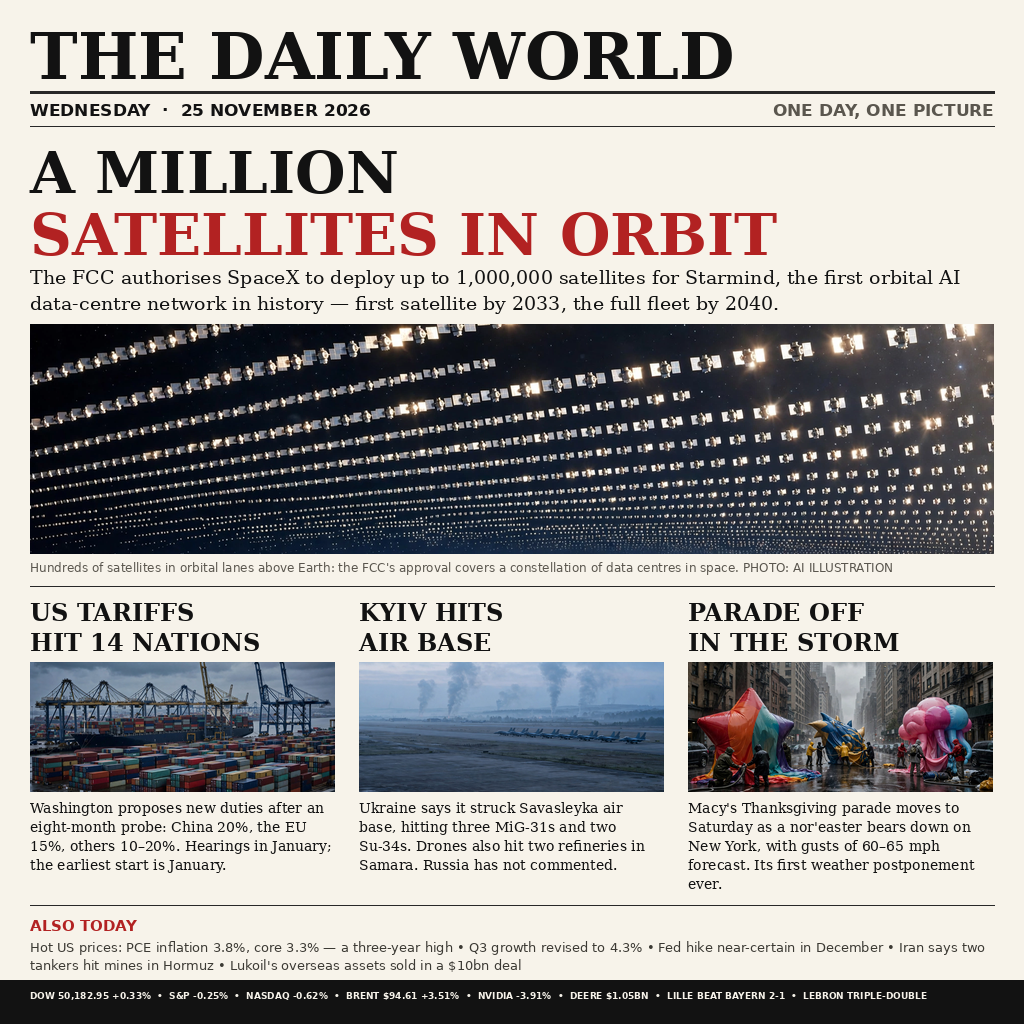
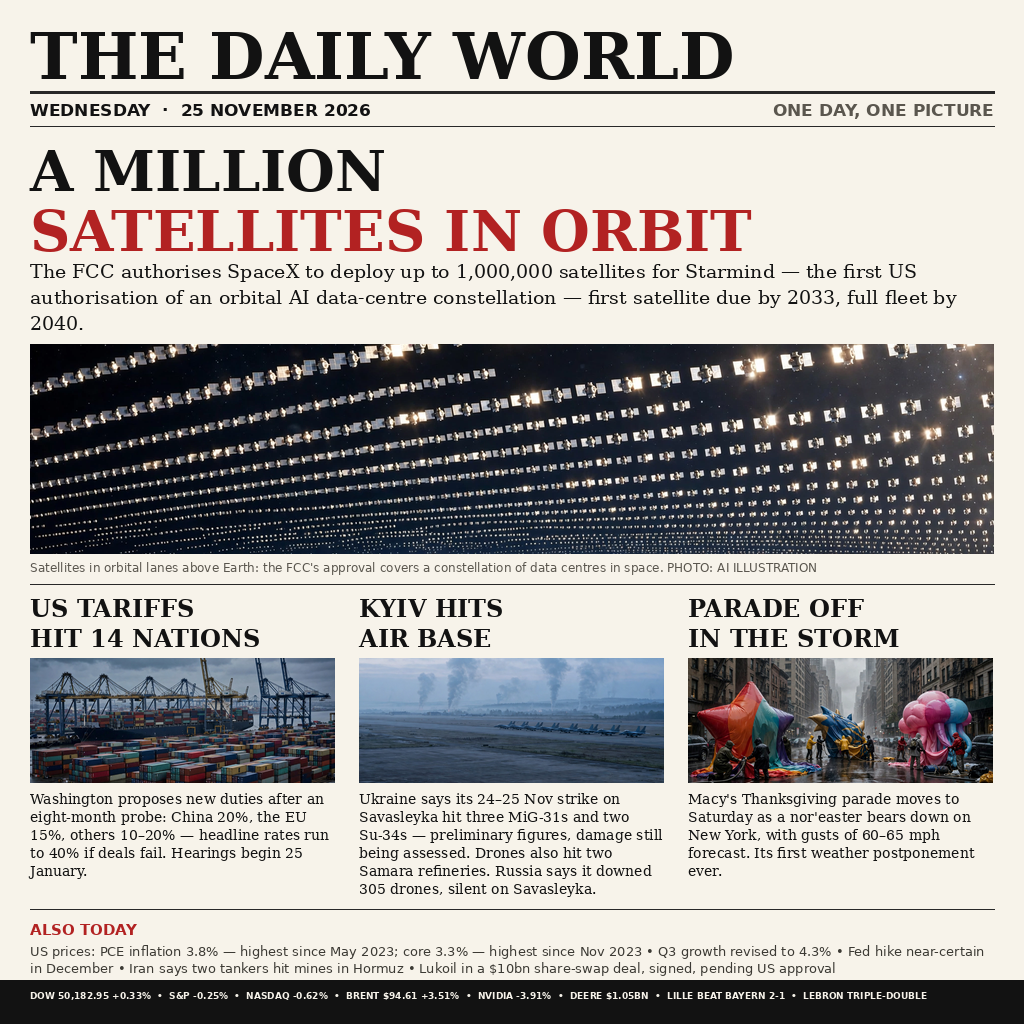
news-image-20261125: apply VERIFY.md corrections (FCC wording, tariff caps, Kyiv attribution, PCE split, Lukoil status)

Changed region(s): [[0.0312, 0.125, 0.9688, 0.9688]]

diff --git a/VERIFY.md b/VERIFY.md
@@ -1,0 +1,191 @@
+# VERIFY.md — "THE DAILY WORLD", Wednesday 25 November 2026
+
+Fact-check of the front page image `entry.png` (read visually first; all claims below are quoted from the page). Verification date: 26 November 2026. Standard applied: each event must have **happened on Wednesday 25 November 2026** (an event's date is the date it happened, not the date a digest listed it), confirmed by at least two independent sources, preferring primary/wire sources (Reuters, AP, WSJ, CNN, BBC). Where a claim rests on one party's assertion only, that is flagged.
+
+---
+
+## 1. Masthead date — WEDNESDAY, 25 NOVEMBER 2026
+
+**Verdict: PASS**
+
+25 November 2026 was a Wednesday (verified by calendar: Wednesday 2026-11-25; Thanksgiving Day itself fell Thursday 26 November 2026, and the rescheduled parade date, Saturday 28 November 2026, is a Saturday). No correction.
+
+- Sources: calendar check; WSJ, "Macy's Postpones Its Thanksgiving Day Parade Until Saturday", 25 Nov 2026 (parade "originally scheduled for Nov. 26").
+
+---
+
+## 2. Lead — FCC authorises SpaceX to deploy up to 1,000,000 satellites for Starmind
+
+Page text: *"The FCC authorises SpaceX to deploy up to 1,000,000 satellites for Starmind, the first orbital AI data-centre network in history — first satellite by 2033, the full fleet by 2040."*
+
+**Verdict: PARTIAL**
+
+What checks out:
+
+- **Number (1,000,000) and name (Starmind): correct.** Reuters, 25 Nov 2026: "The Federal Communications Commission on Wednesday said it was authorizing Elon Musk's SpaceX to deploy 1 million satellites for data centers in space… the FCC said it was approving the SpaceX 'Starmind' constellation." WSJ, 25 Nov 2026: "SpaceX has won approval from the Federal Communications Commission to launch one million data centers into space… known as Starmind."
+- **2033 / 2040 milestones: correct as regulatory deadlines.** WSJ, 25 Nov 2026: "The FCC authorization gives SpaceX until 2033 to launch and operate the first satellite and until 2040 to launch the full constellation." Spaceflight Now, 26 Nov 2026 (reporting the 25 Nov FCC order): first satellite by 25 Nov 2033, 50% by 25 Nov 2038, full constellation by 25 Nov 2040.
+- **It is a first — but only as worded by the FCC.** The FCC called it "the first authorization in U.S. history for a constellation of data centers in space" (reported by USA Today, 25 Nov 2026; GeekWire, 25 Nov 2026). The front page drops both qualifiers ("U.S." and "authorization") and upgrades it to "the first orbital AI data-centre network in history". No such network exists yet — nothing has launched — and other companies (Google, Blue Origin) are pursuing the same goal (Gizmodo, 25 Nov 2026). The page's phrasing presents an authorisation as if it were a built network, and a US first as if it were a world first.
+
+**Corrected wording:** *"The FCC authorises SpaceX to deploy up to 1,000,000 satellites for Starmind — the first US authorisation of an orbital AI data-centre constellation — with the first satellite due by 2033 and the full fleet by 2040."* (Note also that SpaceX itself says it plans to launch the first Starmind satellites in 2027 — WSJ, 25 Nov 2026 — so "by 2033" is the FCC deadline, not SpaceX's plan.)
+
+- Sources: Reuters, 25 Nov 2026; WSJ, 25 Nov 2026; USA Today, 25 Nov 2026; GeekWire, 25 Nov 2026; Spaceflight Now, 26 Nov 2026.
+
+---
+
+## 3. "US TARIFFS HIT 14 NATIONS"
+
+Page text: *"Washington proposes new duties after an eight-month probe: China 20%, the EU 15%, others 10–20%. Hearings in January; the earliest start is January."*
+
+**Verdict: PARTIAL**
+
+What checks out:
+
+- **14 partners, eight-month probe, announced Wednesday 25 Nov 2026: correct.** Reuters, 25 Nov 2026 (read in full): "The Trump administration on Wednesday proposed new tariffs on 14 major trading partners… The US Trade Representative's office announced the duties after completing an eight-month Section 301 unfair trade practices probe into 16 trading partners." The 14 named: China, Bangladesh, Cambodia, EU, India, Indonesia, Japan, South Korea, Malaysia, Singapore, Switzerland, Taiwan, Thailand, Vietnam. Mexico and Norway were excluded (probes ongoing).
+- **China 20%, EU 15%: correct as the capped rates.** Reuters, 25 Nov 2026: China "would face the highest tariff rates… the proposed 20% excess-capacity tariffs"; the 15% cap agreed by the EU, Japan, South Korea and Taiwan. CNN, 25 Nov 2026: "At 20%, China is set to face the highest proposed tariff rate… The European Union's proposed starting rate would be 15%."
+- **Hearings in January; earliest start January: correct.** Kitco (Reuters), 25 Nov 2026: USTR Jamieson Greer said the tariffs "would not take effect until after a January 25 public hearing"; CNN, 25 Nov 2026: "The earliest the administration expects the tariffs to take effect is January." (Written comments due 5 Jan 2027; hearings begin 25 Jan 2027 — Global Trade & Sanctions Law, 25 Nov 2026.)
+
+What needs correcting:
+
+- **"Others 10–20%" is true only of the capped rates, and omits the conditional higher rates.** The capped range does run 10% (Singapore) to 20% (China; Vietnam capped at 20% if a deal is reached), with 15% for the EU/Japan/Korea/Taiwan/Switzerland, 17% for India, 18% for Cambodia/Indonesia/Malaysia/Thailand/Bangladesh. But the headline proposals run 20–40% (Kitco/Reuters, 25 Nov 2026), and the caps rise if trade deals fail: China to 40% if the truce unravels, Vietnam to 35%, India to 25% (Kitco/Reuters; CNN, 25 Nov 2026).
+- **China's 20% stacks on top of existing duties.** Reuters, 25 Nov 2026: the 20% is "in addition to the roughly 25% tariffs imposed during President Donald Trump's first term". The page's bare "China 20%" understates the effective rate.
+
+**Corrected wording:** *"Washington proposes new duties after an eight-month probe: China 20% and the EU 15% (capped rates; others 10–20%, but headline proposals run to 40% and rise if trade deals fail). Hearings begin 25 January; the earliest start is January."*
+
+- Sources: Reuters, 25 Nov 2026 (read in full); CNN, 25 Nov 2026; Kitco (Reuters), 25 Nov 2026; Global Trade & Sanctions Law, 25 Nov 2026.
+
+---
+
+## 4. "KYIV HITS AIR BASE"
+
+Page text: *"Ukraine says it struck Savasleyka air base, hitting three MiG-31s and two Su-34s. Drones also hit two refineries in Samara. Russia has not commented."*
+
+**Verdict: PARTIAL**
+
+What checks out:
+
+- **Three MiG-31s and two Su-34s, attributed to Ukraine: correct as a claim.** BBC, 25 Nov 2026: "Ukraine has said it damaged five Russian military aircraft in an attack on Russia's Savasleyka airfield… Three MiG-31 and two Su-34s aircraft were hit, Kyiv's General Staff said, adding that the extent of the damage was still being assessed." Defence Blog, 25 Nov 2026 (read in full): Ukraine's General Staff said three MiG-31s and two Su-34s "were hit and 'will be unable to fly for some time,' citing preliminary information. 'The extent of the damage and the exact number of aircraft affected are still being verified.'"
+- **Two refineries in Samara: correct as a claim.** BBC, 25 Nov 2026: "Overnight, Kyiv also said it hit two oil refineries in Russia's Samara region" (the Syzran and Kuibyshev refineries). Defence Blog, 25 Nov 2026: "Overnight, Ukraine also targeted the Syzran and Kuibyshev oil refineries in Russia's Samara region."
+- **Damage figures are Ukraine's claim only: the page handles this correctly in the first sentence ("Ukraine says it struck…"), but the second and third sentences drop the attribution.** The figures are preliminary, the extent of damage is still being assessed, and no satellite imagery of damage at the base had surfaced by Wednesday afternoon (Defence Blog, 25 Nov 2026).
+
+What needs correcting:
+
+- **"Russia has not commented" is inaccurate.** Russia's Defence Ministry did comment on the night's events: it said its air defences shot down 305 Ukrainian drones over 13 regions overnight, including Nizhny Novgorod — it simply did not mention Savasleyka (Defence Blog, 25 Nov 2026). The correct statement is that Russia has not commented *on Savasleyka*.
+- **Date note (see §8): the air-base strikes began on 24 November** and continued overnight into Wednesday 25 November (Defence Blog; BBC, 25 Nov 2026). The claim was announced on Wednesday morning, so it is legitimate 25 Nov news, but the strikes themselves straddle 24–25 Nov.
+
+**Corrected wording:** *"Ukraine says it struck Savasleyka air base on 24–25 November, hitting three MiG-31s and two Su-34s — preliminary figures, damage still being assessed. Drones also hit two refineries in Samara, Kyiv says. Russia has not commented on Savasleyka, but says it shot down 305 drones overnight."*
+
+- Sources: BBC, 25 Nov 2026; Defence Blog, 25 Nov 2026 (read in full); NY Post, 25 Nov 2026.
+
+---
+
+## 5. "PARADE OFF IN THE STORM"
+
+Page text: *"Macy's Thanksgiving parade moves to Saturday as a nor'easter bears down on New York, with gusts of 60–65 mph forecast. Its first weather postponement ever."*
+
+**Verdict: PASS (with one precision note)**
+
+- **Postponed to Saturday: correct.** WSJ, 25 Nov 2026 (read in full): "A powerful nor'easter has forced Macy's to reschedule its Thanksgiving Day Parade… Officials made the decision to wait until Saturday"; the parade "would now kick off Saturday at 8:30 a.m." NY Post, 25 Nov 2026: organisers rescheduled "from Thursday to Saturday morning". The decision was announced Wednesday night, 25 Nov 2026 (Macy's executive Will Coss "said Wednesday night" — WSJ).
+- **Gusts of 60–65 mph: correct.** WSJ, 25 Nov 2026: NYC Mayor Zohran Mamdani said the city expected "sustained winds between 30 and 40 mph, with possible gusts as high as 60 to 65 mph". USA Today, 25 Nov 2026: the National Weather Service high-wind warning cited gusts "potentially reaching 60 mph".
+- **First weather postponement ever: correct as worded.** NY Post, 25 Nov 2026: "The decision marks the first time the parade has ever been postponed"; The Times, 25 Nov 2026: "postponed for the first time in its 100-year history". Precision note: the parade *has* been cancelled before — three times, in 1942, 1943 and 1944, because of a wartime rubber and helium shortage — and its balloons were grounded once by weather, in 1971 (63 mph gust in Central Park) (WSJ, 25 Nov 2026). The page's word "postponement" is the precise one and is accurate; "first weather postponement ever" stands, but it should not be shortened to "first cancellation" or "first time weather stopped the parade".
+
+No correction required.
+
+- Sources: WSJ, 25 Nov 2026 (read in full); NY Post, 25 Nov 2026; USA Today, 25 Nov 2026; The Times, 25 Nov 2026.
+
+---
+
+## 6. ALSO TODAY
+
+Page text: *"Hot US prices: PCE inflation 3.8%, core 3.3% — a three-year high • Q3 growth revised to 4.3% • Fed hike near-certain in December • Iran says two tankers hit mines in Hormuz • Lukoil's overseas assets sold in a $10bn deal"*
+
+**Verdict: PARTIAL** (four of five items pass; two need rewording)
+
+### 6a. PCE 3.8%, core 3.3% — PASS on the numbers, PARTIAL on "a three-year high"
+
+- **Numbers correct.** Barron's, 25 Nov 2026: "The personal consumption expenditures price index rose 3.8% in October from a year earlier… Core PCE… climbed to 3.3% from 3.1%." Reuters wrapup, 25 Nov 2026: "PCE inflation increased 3.8%… core PCE inflation increased 3.3% on a year-over-year basis in October." Both released by the Bureau of Economic Analysis on Wednesday 25 Nov 2026 at 08:30 ET.
+- **"A three-year high" is imprecise as attached to both figures.** Headline PCE at 3.8% is the highest since May 2023 (Zacks, 25 Nov 2026) — more than three years — while core PCE at 3.3% is the largest advance since November 2023 (Reuters, 25 Nov 2026), described elsewhere as "its highest level in nearly three years" (TradingView/Cointelegraph, 25 Nov 2026). The phrase is defensible for the headline figure but overstates the core figure by a hair and is ambiguous about which series it modifies.
+
+**Corrected wording:** *"Hot US prices: PCE inflation 3.8% — its highest since May 2023 — and core PCE 3.3%, its highest since November 2023."*
+
+### 6b. Q3 growth revised to 4.3% — PASS
+
+Barron's, 25 Nov 2026: "the economy grew at a 4.3% annualized rate in the third quarter, up from the 3.4% initially reported." Reuters wrapup, 25 Nov 2026: "GDP increased at a 4.3% annualized rate last quarter, the Commerce Department's Bureau of Economic Analysis said in its second estimate." No correction.
+
+### 6c. Fed hike near-certain in December — PASS
+
+Investor's Business Daily, 25 Nov 2026: after the PCE data, markets priced "98% odds of a 25-basis-point rate hike at the Fed's Dec. 9 policy update"; FXStreet, 25 Nov 2026: "a 25-basis-point rate hike in December remains almost fully priced in"; TradingView, 25 Nov 2026: 94.4% as of 16:01 UTC. WSJ, 25 Nov 2026: the inflation reading "seemed to make a December rate hike from the Federal Reserve inevitable". "Near-certain" is a fair summary of market pricing (not a Fed announcement). No correction.
+
+### 6d. Iran says two tankers hit mines in Hormuz — PASS (as attributed)
+
+Reuters, 25 Nov 2026 (read in full via KRRO reprint): "Two oil tankers struck naval mines, exploded and caught fire in the Strait of Hormuz on Wednesday, Iran's Revolutionary Guards Navy said in a statement carried by state media." The page correctly attributes this to Iran ("Iran says"). Flag for the record: this is a single-source claim — the IRGC statement via IRNA named no ship, no flag and no crew, and no independent/maritime-agency confirmation had appeared by Wednesday afternoon (TML News, 25 Nov 2026). The page's attribution makes the wording acceptable; it must not be upgraded to unqualified fact.
+
+### 6e. Lukoil's overseas assets "sold in a $10bn deal" — PARTIAL (overstates completion)
+
+- **The $10bn figure and the 25 Nov date are correct**, but this was a signed agreement, not a completed sale. Reuters, 25 Nov 2026 (read in full): Boehly "said on Wednesday he had signed a deal with Lukoil… The deal… involves swapping Lukoil securities worth $10 billion for the company's international assets." Crucially: "The agreement requires approval from the Treasury Department's Office of Foreign Assets Control (OFAC)"; "Boehly said closing the deal could take up to a year"; no cash changes hands — the securities go into escrow in the UAE; and the portfolio itself is valued at around $16 billion (two people familiar with the terms). WSJ, 25 Nov 2026, likewise: "The consortium said no cash is exchanging hands… The agreement is still subject to approval from the U.S. Treasury Department's Office of Foreign Assets Control." Previous bidders (Gunvor/Centalion, Carlyle) signed deals that never closed.
+
+**Corrected wording:** *"Lukoil's overseas assets in a $10bn share-swap deal — signed, pending US Treasury approval, closing up to a year away."*
+
+- Sources: Barron's, 25 Nov 2026; Reuters, 25 Nov 2026; Zacks, 25 Nov 2026; Investor's Business Daily, 25 Nov 2026; FXStreet, 25 Nov 2026; WSJ, 25 Nov 2026; TradingView, 25 Nov 2026; TML News, 25 Nov 2026.
+
+---
+
+## 7. Ticker
+
+Page text: *"DOW 50,182.95 +0.33% • S&P -0.25% • NASDAQ -0.62% • BRENT $94.61 +3.51% • NVIDIA -3.91% • DEERE $1.05BN • LILLE BEAT BAYERN 2-1 • LEBRON TRIPLE-DOUBLE"*
+
+**Verdict: PASS** (all eight items verified; two notes below)
+
+- **Dow 50,182.95 +0.33%: correct.** WSJ, 25 Nov 2026 (read in full): "The Dow Jones Industrial Average gained 164.25 points, or 0.33%, to 50182.95."
+- **S&P -0.25%: correct.** WSJ, 25 Nov 2026: "the broad S&P 500 slipped 18.31 points, or 0.25%, to 7182.78."
+- **Nasdaq -0.62%: correct.** WSJ, 25 Nov 2026: "The tech-heavy Nasdaq Composite dropped 147.73 points, or 0.62%, to 23585.80."
+- **Brent $94.61 +3.51%: correct.** Reuters, 25 Nov 2026: "Brent crude futures settled $3.21, or 3.5%, higher at $94.61 a barrel"; Morningstar (Dow Jones Market Data), 25 Nov 2026: "Front Month ICE Brent Crude Rose 3.51% to Settle at $94.61." Note: one minor aggregator feed showed a conflicting Brent figure ($90.80, −0.66%); the Reuters/WSJ/Dow Jones settlement of $94.61 +3.51% is the verified close and matches the page.
+- **Nvidia -3.91%: correct.** WSJ, 25 Nov 2026: "Nvidia shares fell 3.9% to $149.30"; ETF.net, 25 Nov 2026: "Nvidia fell 3.9%"; closing data gives −3.91% to $149.30 (The Ticker Tribune, 25 Nov 2026).
+- **Deere $1.05bn (Q4 net income): correct.** Deere & Company press release, 25 Nov 2026: "Deere Reports Net Income of $1.051 Billion for Fourth Quarter… net income of $1.051 billion for the fourth quarter ended November 1, 2026, or $3.89 per share." WSJ, 25 Nov 2026: "on Wednesday posted a fiscal fourth-quarter profit of $1.05 billion."
+- **Lille beat Bayern 2-1: correct.** UEFA, 25 Nov 2026: "Bayern suffered a 2-1 defeat away to Lille… Lille 2-1 Bayern München"; Reuters, 25 Nov 2026: "he masterminded Lille's 2-1 Champions League victory over the German side" (played Wednesday 25 Nov 2026).
+- **LeBron triple-double (first as a 76er): correct.** Reuters, 26 Nov 2026 (game played Wednesday night, 25 Nov): "LeBron James recorded his first triple-double as a member of the Philadelphia 76ers on Wednesday… James posted 25 points, 12 assists and 10 rebounds" in a 111–104 win over the Miami Heat. AP (via theScore), 25 Nov 2026: "LeBron James had 25 points, 12 assists and 10 rebounds for his first triple-double with Philadelphia."
+
+Notes: (i) the page gives no levels for the S&P/Nasdaq closes (7,182.78 / 23,585.80) — omission only, not an error. (ii) The Lille and LeBron results are Wednesday-evening events (Lille finished ~22:00 CET; the 76ers game ended late Wednesday night US time), so they belong in a late edition of a 25 Nov paper but would not have been available at an early print deadline. (iii) No gold price is printed on the page — correct to leave it out, as sources conflicted on the day. (iv) No Nasdaq bear-market claim is made on the page — correct: the Composite closed down only 0.62% on the day (WSJ notes the Nasdaq 100 touched bear-market territory intraday, but the index did not close there).
+
+- Sources: WSJ, 25 Nov 2026 (read in full); Reuters, 25 Nov 2026; Morningstar/Dow Jones Market Data, 25 Nov 2026; Deere & Co., 25 Nov 2026; UEFA, 25 Nov 2026; AP via theScore, 25 Nov 2026; ETF.net, 25 Nov 2026.
+
+---
+
+## 8. Date audit and "first / broke / largest" claims
+
+**Verdict: two date notes and three superlative notes — no fabricated event found.**
+
+### Events that are not purely 25 November events
+
+1. **Kyiv / Savasleyka strikes (§4): the air-base strikes began on Tuesday 24 November** and ran overnight into Wednesday 25 November (Defence Blog; BBC, 25 Nov 2026). The Samara refinery strikes were overnight 24–25 Nov. The claims were announced on Wednesday morning, so the story is legitimate 25 Nov news, but a strict "events of 25 November" front page should date the strikes 24–25 Nov (see corrected wording in §4). This is the one item on the page whose event date is partly 24 November.
+2. **Everything else audited is a genuine 25 November 2026 event:** FCC/Starmind authorisation (25 Nov), tariff proposals (25 Nov), Macy's postponement decision (Wednesday night, 25 Nov), PCE and Q3 GDP releases (08:30 ET, 25 Nov), Hormuz tanker claims (Wednesday morning, 25 Nov), Lukoil signing (25 Nov), Deere results (25 Nov), market closes (25 Nov), Lille–Bayern (25 Nov evening), LeBron triple-double (25 Nov evening, US time). No 23 November event was found on the page.
+
+### "First / broke / largest" claims
+
+1. **"The first orbital AI data-centre network in history" (§2) — OVERSTATED.** The FCC's actual wording is "the first authorization in U.S. history for a constellation of data centers in space". Correct to "first US authorisation of an orbital AI data-centre constellation".
+2. **"Its first weather postponement ever" (§5) — HOLDS**, with the precision note that the parade was cancelled three times before for wartime shortages (1942–44) and its balloons were grounded once by weather (1971). "Postponement" is the accurate word.
+3. **"A three-year high" (§6a) — IMPRECISE.** Headline PCE's last higher reading was May 2023; core PCE's was November 2023 ("nearly three years"). Reword per §6a.
+4. **"A MILLION SATELLITES" (headline) — accurate only as an authorisation.** The FCC authorised *up to* 1,000,000 satellites; none has launched and SpaceX plans the first for 2027. The deck copy ("authorises… to deploy up to 1,000,000") states this correctly; the headline alone could be read as a built fleet, but in context it is fair.
+5. **No other superlative on the page fails.** Nothing else claims a first, a record or a largest.
+
+### Minor caption note (not a numbered claim)
+
+- The lead-photo caption reads "Hundreds of satellites in orbital lanes above Earth". The AI illustration above it depicts far more than hundreds — dense rows running to what reads as thousands. The caption is also correctly labelled "PHOTO: AI ILLUSTRATION". Suggested fix: "Thousands of satellites in orbital lanes above Earth…" or drop the count ("Satellites in orbital lanes above Earth…").
+
+- Sources: as cited in §§2–7 above.
+
+---
+
+## Overall verdict: PASS WITH NOTES
+
+The front page is built on real 25 November 2026 events and gets its numbers right: the 1,000,000-satellite Starmind authorisation, the 2033/2040 deadlines, the tariff rates and January timetable, the 60–65 mph gusts and Saturday parade move, PCE 3.8% / core 3.3%, Q3 growth 4.3%, the near-certain December Fed hike, the Hormuz tanker claims, and every ticker figure (Dow 50,182.95 +0.33%, S&P −0.25%, Nasdaq −0.62%, Brent $94.61 +3.51%, Nvidia −3.91%, Deere $1.051bn Q4 net income, Lille 2–1 Bayern, LeBron's first triple-double as a 76er) all verify against Reuters, WSJ, BBC, UEFA, Deere and the BEA. No 23 November event appears on the page, and the page correctly avoids both a gold price and any Nasdaq bear-market claim.
+
+**Corrections the front page needs (all of them wording/attribution, none a fabricated core fact):**
+
+1. **Lead (§2):** "the first orbital AI data-centre network in history" → "the first US authorisation of an orbital AI data-centre constellation". Add that 2033/2040 are FCC deadlines (SpaceX plans first launches in 2027).
+2. **Tariffs (§3):** "others 10–20%" → capped rates of 10–20%, with headline proposals to 40% and higher rates if trade deals fail (China 40%, Vietnam 35%, India 25%); note China's 20% stacks on ~25% first-term duties.
+3. **Kyiv (§4):** date the strikes 24–25 November; keep the damage figures explicitly attributed to Ukraine as preliminary; replace "Russia has not commented" with "Russia has not commented on Savasleyka, but says it shot down 305 drones overnight".
+4. **Also Today — PCE (§6a):** replace the blanket "a three-year high" with "headline PCE 3.8%, its highest since May 2023; core PCE 3.3%, its highest since November 2023".
+5. **Also Today — Lukoil (§6e):** "sold in a $10bn deal" → "in a $10bn share-swap deal — signed, pending US Treasury (OFAC) approval, closing up to a year away; no cash changes hands".
+6. **Caption (§8):** "Hundreds of satellites" → drop the count or say "Thousands", to match the illustration.
+
+No claim was found to be unverifiable, and no correction above changes the substance of any story — but corrections 1–5 should be made before the page is submitted as a factual front page.

diff --git a/README.md b/README.md
@@ -12,7 +12,7 @@ One image summing up Wednesday 25 November 2026's world news, as a newspaper fro
 python3 main.py
 ```
 
-Writes the front page to `/output/entry.png` (1024×1024, 709,200 bytes).
+Writes the front page to `/output/entry.png` (1024×1024, 677,009 bytes).
 
 ---
 
